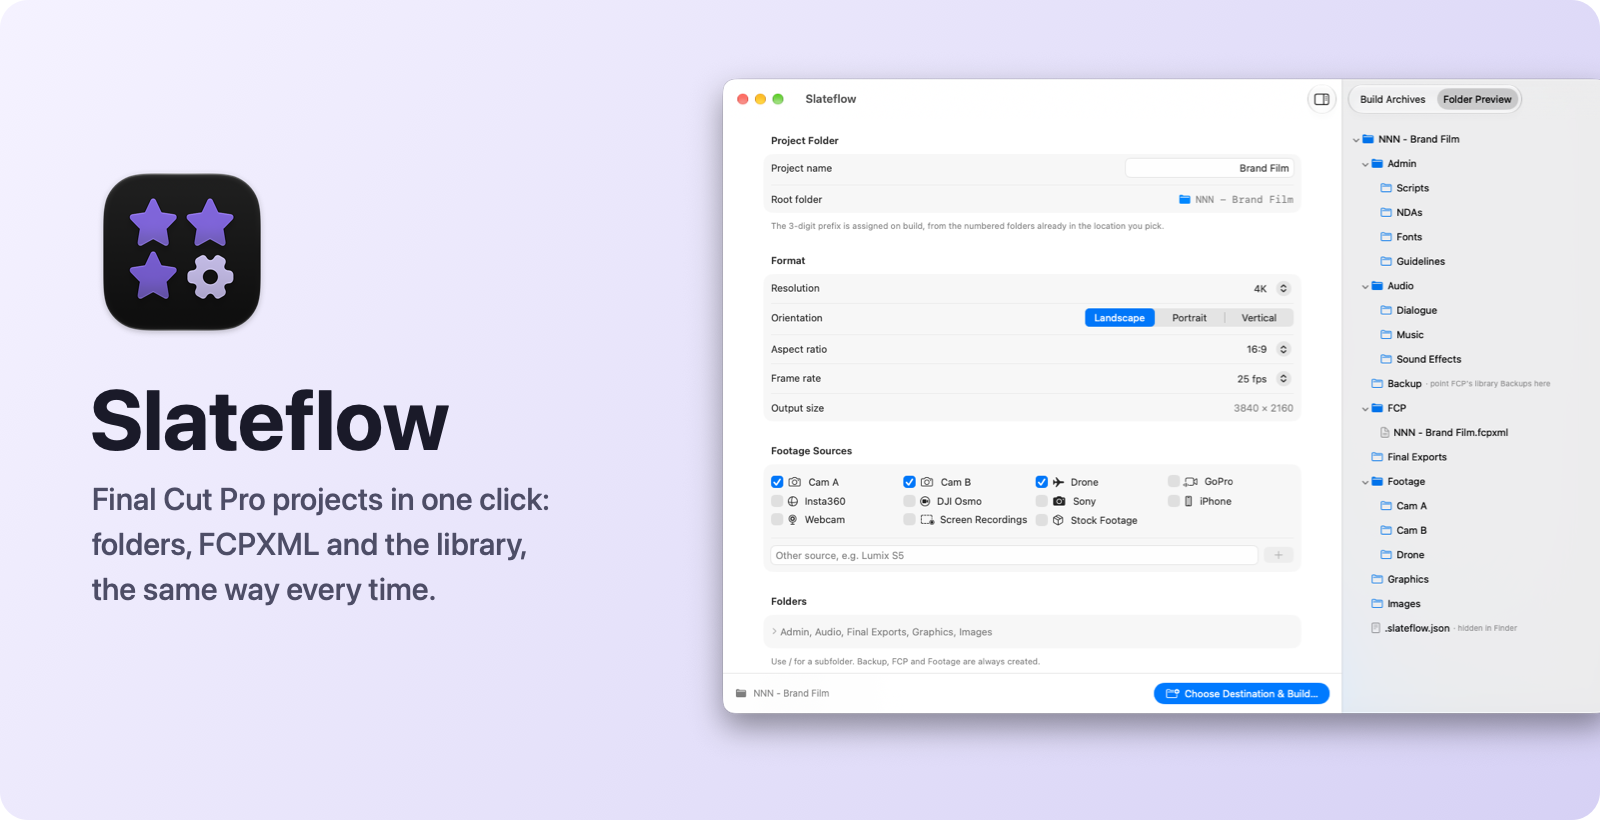
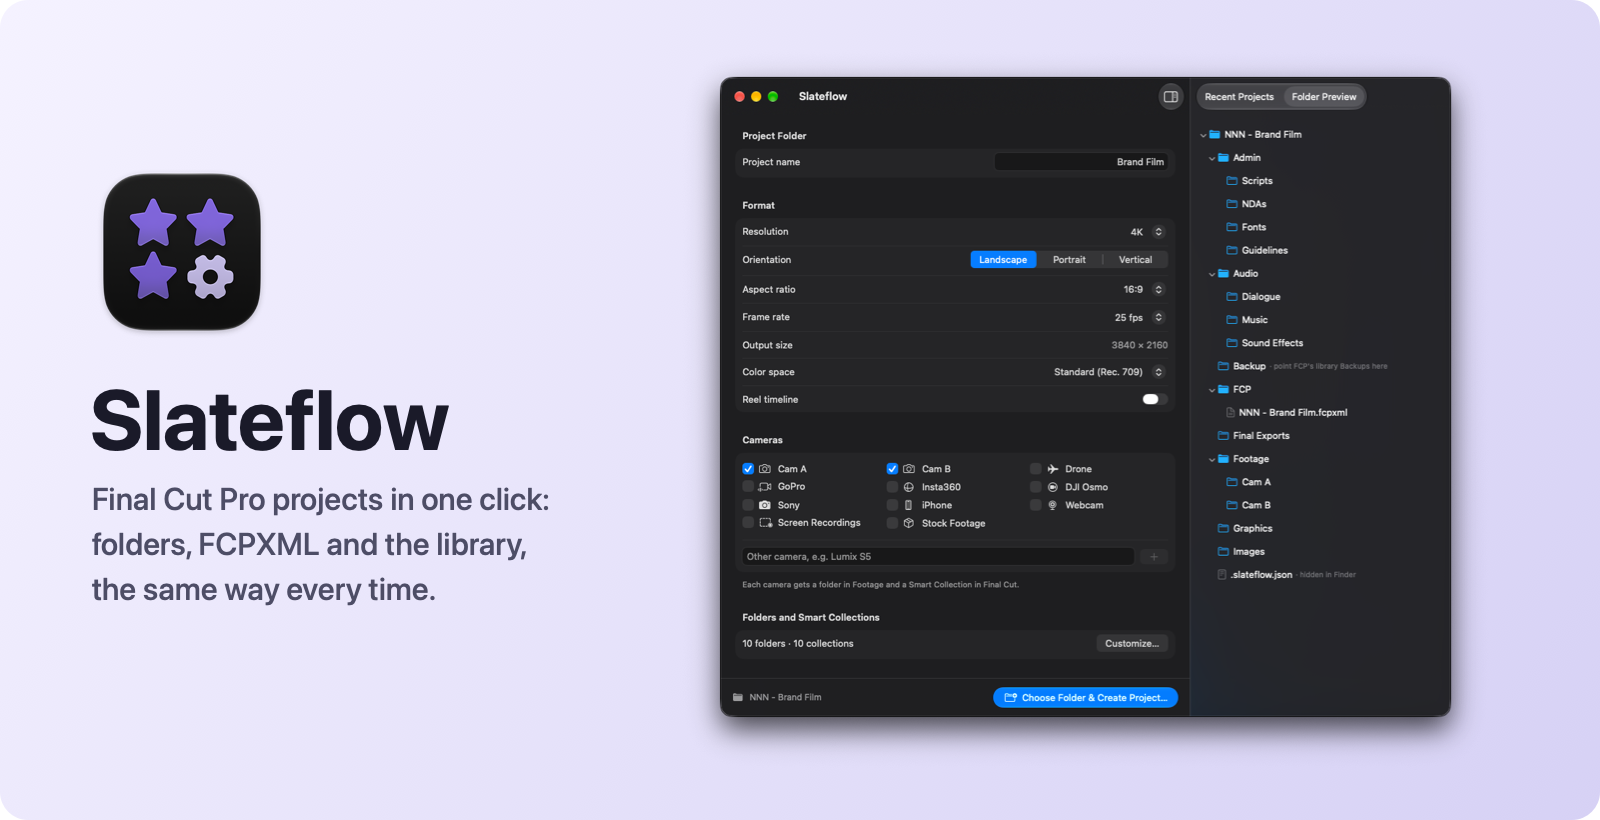
Release 1.0.0-beta.1 (#20)
* Even section gaps and camera name alignment

* Cameras footer: each camera gets a folder and a Smart Collection

* CHANGELOG: Cameras note and even spacing

* README and docs use the new names: Create Project, Customize Projects, Cameras

* README banner shows the current window

* Release 1.0.0-beta.1

diff --git a/Slateflow/Views/Configuration/FootageSourcesSection.swift b/Slateflow/Views/Configuration/FootageSourcesSection.swift
@@ -17,14 +17,12 @@ struct FootageSourcesSection: View {
     }
 
     var body: some View {
-        Section(Strings.FootageSources.section) {
+        Section {
             // Two columns when the form is wide enough, one when it isn't.
             LazyVGrid(columns: [GridItem(.adaptive(minimum: Size.Column.md), alignment: .leading)],
                       alignment: .leading, spacing: Spacing.xs) {
                 ForEach(FootageSource.presets) { source in
-                    Toggle(isOn: binding(for: source)) {
-                        Label(source.folderName, systemImage: source.symbol)
-                    }
+                    Toggle(isOn: binding(for: source)) { label(source) }
                     .toggleStyle(.checkbox)
                 }
             }
@@ -32,7 +30,7 @@ struct FootageSourcesSection: View {
 
             ForEach(customSources) { source in
                 HStack {
-                    Label(source.folderName, systemImage: source.symbol)
+                    label(source)
                     Spacer()
                     RemoveButton(title: Strings.FootageSources.remove(source.folderName)) {
                         store.settings.setFootageSource(source, enabled: false)
@@ -43,6 +41,20 @@ struct FootageSourcesSection: View {
 
             AddField(label: Strings.FootageSources.addLabel, prompt: Strings.FootageSources.addPrompt,
                      addTitle: Strings.FootageSources.add, text: $newSource, onAdd: addCustom)
+        } header: {
+            Text(Strings.FootageSources.section)
+        } footer: {
+            // Says up front why ticking a camera changes the collection count below.
+            Text(Strings.FootageSources.footer)
+        }
+    }
+
+    /// Icons are drawn at different widths; a fixed column keeps every name on one edge.
+    private func label(_ source: FootageSource) -> some View {
+        Label {
+            Text(source.folderName)
+        } icon: {
+            Image(systemName: source.symbol).frame(width: Size.Icon.md)
         }
     }
 

diff --git a/Slateflow/Views/Configuration/CustomizeSection.swift b/Slateflow/Views/Configuration/CustomizeSection.swift
@@ -13,11 +13,12 @@ struct CustomizeSection: View {
     let store: SlateStore
 
     var body: some View {
-        Section {
+        // A titled section like the others, so the gap above it matches theirs.
+        Section(Strings.Customize.title) {
             LabeledContent {
                 SettingsButton(title: Strings.Customize.button, tab: .folders)
             } label: {
-                RowLabel(title: Strings.Customize.title, hint: Strings.Customize.summary(
+                Text(Strings.Customize.summary(
                     folders: store.settings.folders.count,
                     collections: store.settings.fcp.smartCollections.filter(\.enabled).count))
             }
@@ -26,7 +27,7 @@ struct CustomizeSection: View {
     }
 }
 
-/// Shown once, the first time the window opens; dismissing it or opening Settings ends it.
+/// Shown once, the first time the window opens; dismissing it or opening Customize Projects ends it.
 struct CustomizeTip: Tip {
     var title: Text { Text(Strings.Customize.tipTitle) }
     var message: Text? { Text(Strings.Customize.tipMessage) }

diff --git a/Slateflow/Views/Root/BuildSuccessSheet.swift b/Slateflow/Views/Root/BuildSuccessSheet.swift
@@ -30,7 +30,7 @@ struct BuildSuccessSheet: View {
                 Image(systemName: SFSymbol.success).font(.title2).foregroundStyle(Palette.success)
             }
 
-            // The one-time Final Cut settings are explained in Settings, not here.
+            // The one-time Final Cut settings are explained in Customize Projects, not here.
             Text(failed ? Strings.Build.libraryFailed : Strings.Build.libraryNote)
                 .foregroundStyle(.secondary)
                 .fixedSize(horizontal: false, vertical: true)

diff --git a/Slateflow/App/SlateflowApp.swift b/Slateflow/App/SlateflowApp.swift
@@ -15,7 +15,7 @@ struct SlateflowApp: App {
     // Started after the self-check so CI's --selftest run never touches the network.
     private let updaterController = SPUStandardUpdaterController(
         startingUpdater: false, updaterDelegate: nil, userDriverDelegate: nil)
-    /// Shared by the main window and Settings. Created in `init`, after the self-check.
+    /// Shared by the main window and Customize Projects. Created in `init`, after the self-check.
     @State private var store: SlateStore
 
     init() {

diff --git a/Slateflow/Views/Root/ContentView.swift b/Slateflow/Views/Root/ContentView.swift
@@ -9,7 +9,7 @@ import SwiftUI
 import AppKit
 
 struct ContentView: View {
-    /// Owned by the App, so the Settings window edits the same settings.
+    /// Owned by the App, so the Customize Projects window edits the same settings.
     @Bindable var store: SlateStore
     @State private var buildError: String?
     @State private var builtProject: URL?

diff --git a/Slateflow/Views/Configuration/ConfigurationForm.swift b/Slateflow/Views/Configuration/ConfigurationForm.swift
@@ -2,7 +2,7 @@
 //  ConfigurationForm.swift
 //  Slateflow
 //
-//  The sidebar form: what changes per project. Set-once options live in Settings.
+//  The sidebar form: what changes per project. Set-once options live in Customize Projects.
 //  Each Section is its own component; the grouped Form owns section spacing, so
 //  no manual padding here.
 //

diff --git a/Slateflow/Support/Strings.swift b/Slateflow/Support/Strings.swift
@@ -43,6 +43,7 @@ enum Strings {
 
     enum FootageSources {
         static let section = "Cameras"
+        static let footer = "Each camera gets a folder in Footage and a Smart Collection in Final Cut."
         static let addLabel = "Other camera"
         static let addPrompt = "Other camera, e.g. Lumix S5"
         static let add = "Add camera"

diff --git a/README.md b/README.md
@@ -22,12 +22,14 @@
 
 ## What it does
 
-- **Numbered project folders.** `001 - Name`, `002 - Name`, …, always the next free number in the folder you pick.
+- **One click.** Set the name, format and cameras, then **Create Project** (⌘N). Slateflow remembers the folder you create projects in.
+- **Numbered project folders.** `001 - Name`, `002 - Name`, …, always the next free number in that folder.
 - **The same structure every time.** Admin, Audio, Backup, FCP, Final Exports, Footage, Graphics and Images, or your own folders.
-- **A folder per camera.** Cam A/B, Drone, GoPro, Insta360, DJI Osmo, Sony, iPhone, Webcam, Screen Recordings, Stock Footage, or your own.
-- **A ready Final Cut project.** The `.fcpxml` carries your resolution, aspect ratio, frame rate, roles, and Smart Collections that sort clips on import.
+- **A folder per camera.** Cam A/B, Drone, GoPro, Insta360, DJI Osmo, Sony, iPhone, Webcam, Screen Recordings, Stock Footage, or your own. Each camera also gets a Smart Collection.
+- **A ready Final Cut project.** The `.fcpxml` carries your resolution, aspect ratio, frame rate, color space, roles, and Smart Collections that sort clips on import. Optionally a second 9:16 timeline for reels.
 - **The library, created for you.** Final Cut creates it in the project's `FCP` folder, in your installed version's format.
-- **Reuse past settings.** **Recent Projects** keeps every project's format and naming.
+- **Set it once.** **Slateflow ▸ Customize Projects…** (⌘,) holds the folders and Smart Collections every project gets.
+- **See it first, reuse it later.** **Folder Preview** shows what will be created; **Recent Projects** keeps every project's format and naming.
 
 ## Install
 
@@ -35,7 +37,7 @@ Download the DMG from [Releases](https://github.com/PixelEtch/Slateflow/releases
 
 ## Final Cut settings
 
-Final Cut can't take these from the project file, so set them yourself:
+Final Cut can't take these from the project file, so set them yourself. **Customize Projects ▸ Smart Collections** repeats them.
 
 - **Once, in Final Cut Pro ▸ Settings ▸ Import:** turn on **Leave files in place**, and **Keywords: From folders** so camera folders fill their Smart Collections.
 - **When a new library asks for storage locations:** set Backups to the project's `Backup` folder. Media and render files already stay inside the project.

diff --git a/CHANGELOG.md b/CHANGELOG.md
@@ -2,7 +2,7 @@
 
 All notable changes to Slateflow are listed here.
 
-## Unreleased
+## 1.0.0-beta.1 - 2026-10-31
 
 ### Changed
 - The main window shows only what changes per project: Project name, Format and Cameras. Folders and the Final Cut options (Leave files in place, Smart Collections) moved to **Slateflow ▸ Customize Projects…** (⌘,), in two tabs: **Folders** and **Smart Collections**.
@@ -12,6 +12,8 @@ All notable changes to Slateflow are listed here.
 - The bottom bar reads as one line: Creates “NNN - Name” in **Folder** · Change….
 - The Root folder row and its note are gone; hover over the project name to see how the number is picked.
 - Build Archives is now **Recent Projects**, and Footage Sources is now **Cameras**.
+- A line under Cameras says each camera gets a folder in Footage and a Smart Collection in Final Cut.
+- Sections in the main window have even gaps, and camera names line up.
 - The success window is shorter. The one-time Final Cut settings (Leave files in place, Keywords: From folders, and where to put Backups) are explained under Smart Collections in Customize Projects instead.
 
 ## 1.0.0-alpha.5 - 2026-10-30

diff --git a/docs/PRIVACY.md b/docs/PRIVACY.md
@@ -8,7 +8,7 @@ The app is sandboxed, so everything it keeps lives in its own container:
 
 | What | Where |
 |---|---|
-| Settings (format, project name, footage sources, roles, Smart Collections, inspector state) | `~/Library/Containers/com.ashifali.Slateflow/Data/Library/Preferences/com.ashifali.Slateflow.plist` |
+| Settings (format, project name, cameras, folders, roles, Smart Collections, inspector state) | `~/Library/Containers/com.ashifali.Slateflow/Data/Library/Preferences/com.ashifali.Slateflow.plist` |
 | Build history | `~/Library/Containers/com.ashifali.Slateflow/Data/Library/Application Support/Slateflow/BuildHistory.json` |
 | Log | `~/Library/Containers/com.ashifali.Slateflow/Data/Library/Application Support/Slateflow/Slate.log` (**Help > Open Log File**) |
 
